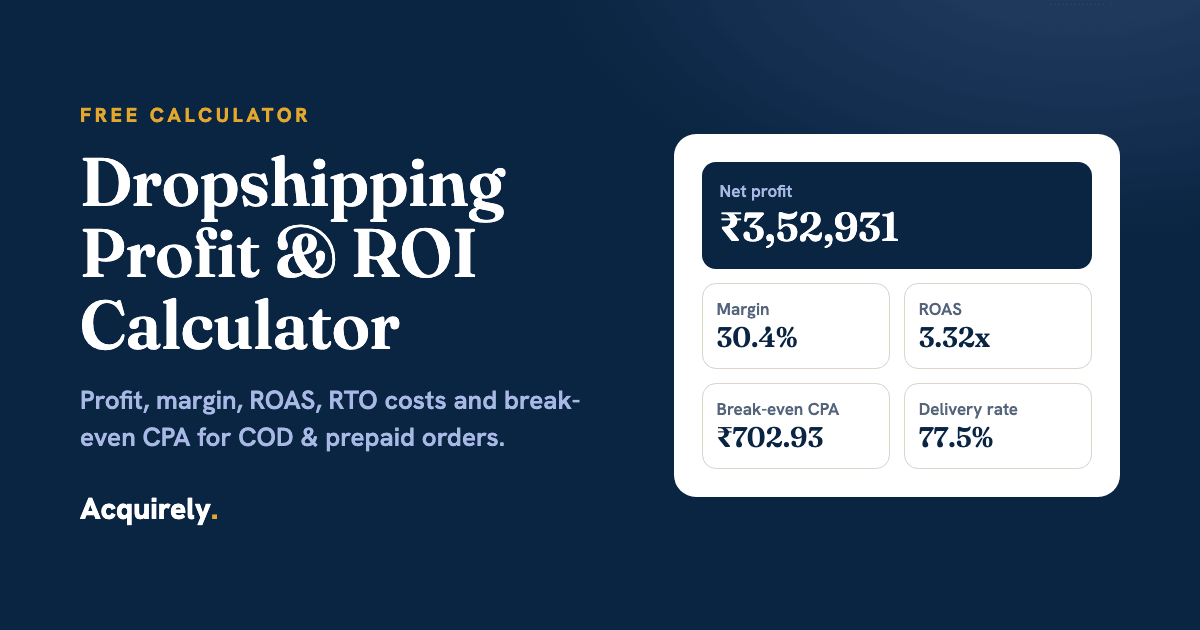
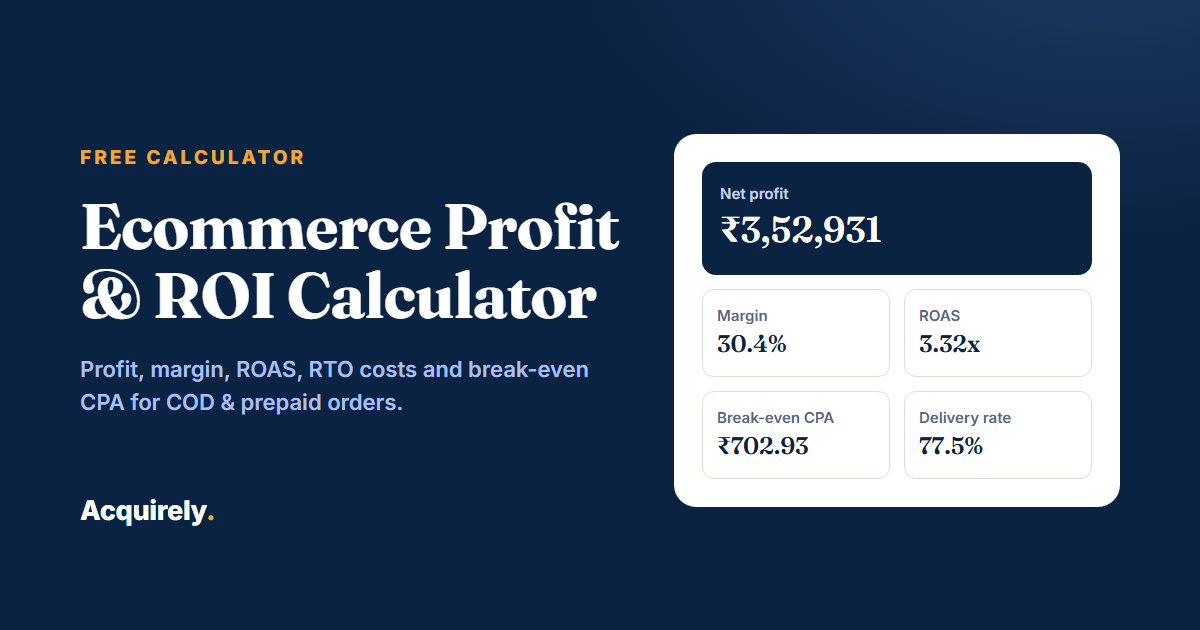
Ecommerce calculator OG image: "Ecommerce Profit & ROI Calculator"
Replaces the old "Dropshipping" thumbnail and versions the URL so social previews refetch it.

diff --git a/app/ecommerce-calculator/_lib/site.ts b/app/ecommerce-calculator/_lib/site.ts
@@ -12,7 +12,7 @@ export const CONTACT_EMAIL = "team@acquirely.in";
 export const AUDIT_HREF = `mailto:${CONTACT_EMAIL}?subject=Profitability%20audit`;
 
 export const SITE_NAME = "Acquirely Ecommerce Profit Calculator";
-export const OG_IMAGE_URL = `${PAGE_URL}/assets/og-ecommerce-calculator.png`;
+export const OG_IMAGE_URL = `${PAGE_URL}/assets/og-ecommerce-calculator.png?v=2`; // bump ?v= when the image changes so social previews refetch it
 
 /**
  * Bump whenever the guide copy or calculator model changes. Drives the visible
